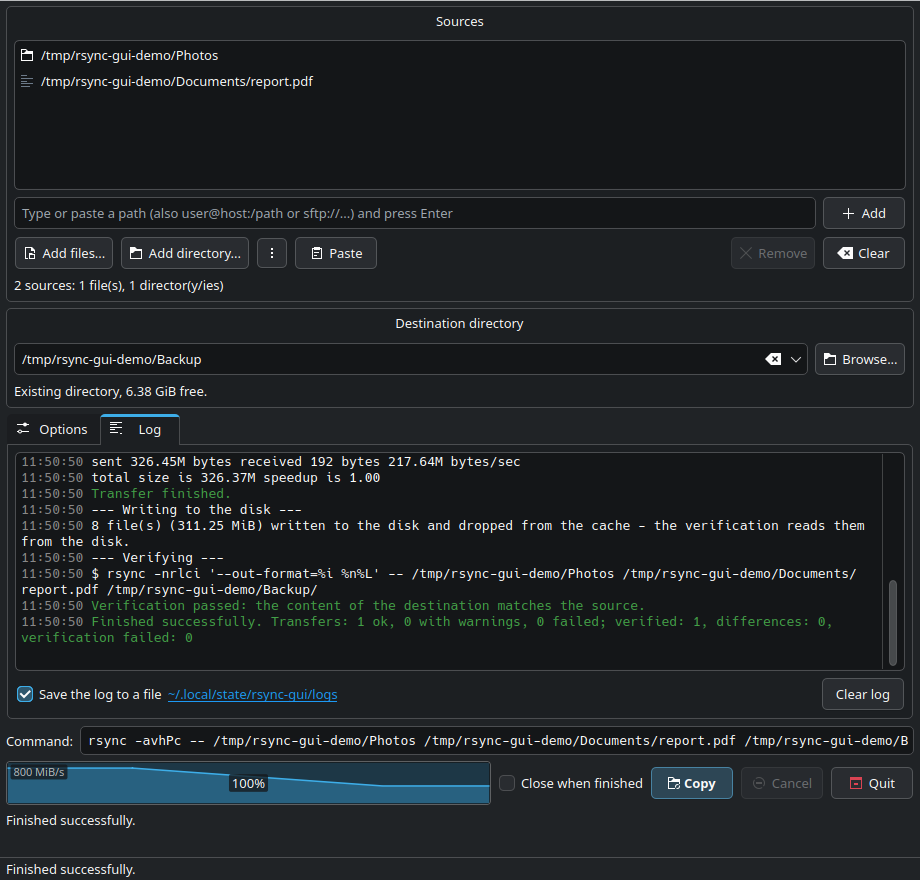
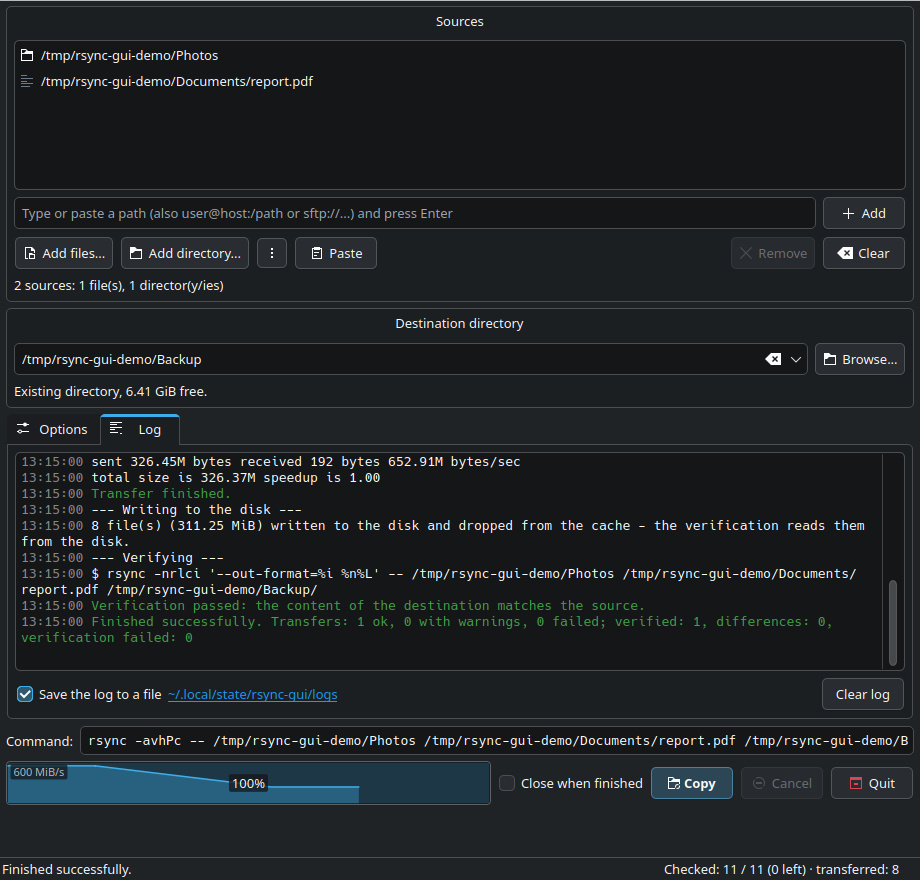
File counter and the result of the last run in the status bar
- Sum rsync's "xfr#N, to-chk=R/T" over all transfers of the job
  (RsyncJob::filesChanged) and show "Checked: n / total (left) ·
  transferred: m" on the right of the status bar; "+" while the total is
  not final. The checked count no longer goes back (rsync reports it out
  of order). The counts are also in the Plasma notification.
- Show the result of the last run on the left of the status bar instead
  of twice (current file line and status bar); a dry run says that
  nothing was changed, failed verification gives the number of
  differences.

diff --git a/src/mainwindow.cpp b/src/mainwindow.cpp
@@ -393,8 +393,17 @@ void MainWindow::buildUi()
     m_transferStatus = new ElidedLabel(central);
     m_transferStatus->setElideMode(Qt::ElideRight); // the amount and the percentage come first
     m_transferStatus->setFont(QFontDatabase::systemFont(QFontDatabase::FixedFont));
+    m_fileCount = new QLabel(this);
+    m_fileCount->setToolTip(tr("Entries rsync has checked of those it found so far (directories and files that are up "
+                               "to date count too) and the files it actually transferred. A \"+\" means the total "
+                               "is not final yet: rsync is still scanning, or more transfers follow."));
     mainLayout->addWidget(m_currentFile);
     mainLayout->addWidget(m_transferStatus);
+    // The status bar: the result of the last run on the left (hidden while a message is shown there, e.g. an
+    // invalid option), the file counter on the right.
+    m_resultLabel = new QLabel(this);
+    statusBar()->addWidget(m_resultLabel, 1);
+    statusBar()->addPermanentWidget(m_fileCount);
 
     // --- Log ---
     auto *logPage = new QWidget(m_tabs);
@@ -1281,6 +1290,11 @@ void MainWindow::startCopy()
     connect(m_job, &RsyncJob::statusChanged, m_transferStatus, [this](const QString &status) {
         m_transferStatus->setText(status);
     });
+    m_fileCount->clear();
+    m_resultLabel->clear();
+    connect(m_job, &RsyncJob::filesChanged, m_fileCount, [this](const RsyncJob::FileCount &count) {
+        m_fileCount->setText(RsyncJob::fileCountText(count));
+    });
     connect(m_job, &RsyncJob::finished, this, &MainWindow::onJobFinished);
 
     QString logFileError;
@@ -1326,10 +1340,23 @@ void MainWindow::startDesktopProgress(const RsyncOptions &options, const Locatio
     const QString title = options.dryRun ? tr("Dry run") : options.removeSourceFiles ? tr("Moving") : tr("Copying");
     m_desktopProgress->start(title, source, LocalPath::display(dest.toString()), destUrl);
     connect(m_job, &RsyncJob::progress, m_desktopProgress, &DesktopProgress::setProgress);
-    connect(m_job, &RsyncJob::statusChanged, m_desktopProgress, [this](QString status) {
-        // Plasma shows the percentage itself; keep the size, speed and ETA.
+    // Plasma shows the percentage itself; keep the size, speed, ETA and the file counts.
+    auto fileCount = std::make_shared<QString>();
+    auto updateInfo = [this, fileCount] {
         static const QRegularExpression percent(QStringLiteral("^\\d+%\\s*"));
-        m_desktopProgress->setInfo(status.remove(percent));
+        QString info = QString(m_transferStatusText).remove(percent);
+        if (!fileCount->isEmpty())
+            info += (info.isEmpty() ? QString() : QStringLiteral("  ")) + *fileCount;
+        m_desktopProgress->setInfo(info);
+    };
+    m_transferStatusText.clear();
+    connect(m_job, &RsyncJob::statusChanged, m_desktopProgress, [this, updateInfo](const QString &status) {
+        m_transferStatusText = status;
+        updateInfo();
+    });
+    connect(m_job, &RsyncJob::filesChanged, m_desktopProgress, [fileCount, updateInfo](const RsyncJob::FileCount &count) {
+        *fileCount = RsyncJob::fileCountText(count);
+        updateInfo();
     });
     connect(m_job, &RsyncJob::transferRateChanged, m_desktopProgress, &DesktopProgress::setSpeed);
     measureSourcesForDesktopProgress(options);
@@ -1437,6 +1464,7 @@ void MainWindow::onJobFinished()
     m_progress->stop();
     m_progress->setRange(0, 1000);
     m_transferStatus->clear();
+    m_currentFile->clear();
     // After a move, sources that no longer exist were transferred and removed - drop them from the list.
     if (currentOptions().removeSourceFiles && !currentOptions().dryRun) {
         for (int i = m_sourceList->count() - 1; i >= 0; --i) {
@@ -1448,18 +1476,18 @@ void MainWindow::onJobFinished()
     refreshSources();
     if (summary.ok() && m_closeWhenFinishedCheck->isChecked() && !m_job->options().dryRun) {
         // A short moment to see the result; unchecking the box in the meantime keeps the window open.
-        m_currentFile->setText(tr("Finished successfully. Closing..."));
+        m_resultLabel->setText(tr("Finished successfully. Closing..."));
         QTimer::singleShot(1500, this, [this] {
             if (m_closeWhenFinishedCheck->isChecked() && !(m_job && m_job->isRunning()))
                 close();
         });
     } else if (summary.ok()) {
-        m_currentFile->setText(tr("Finished successfully."));
-        statusBar()->showMessage(tr("Finished successfully."), 10000);
+        m_resultLabel->setText(m_job->options().dryRun ? tr("Dry run finished - nothing was changed.")
+                                                       : tr("Finished successfully."));
     } else if (summary.cancelled) {
-        m_currentFile->setText(tr("Cancelled."));
+        m_resultLabel->setText(tr("Cancelled."));
     } else if (summary.differences > 0) {
-        m_currentFile->setText(tr("Verification found differences."));
+        m_resultLabel->setText(tr("Verification found differences: %L1.").arg(summary.differences));
         QMessageBox box(QMessageBox::Warning, tr("Verification failed"),
                         tr("%1 entr(y/ies) in the destination differ from the source or are missing. "
                            "See the log for details.")
@@ -1468,7 +1496,7 @@ void MainWindow::onJobFinished()
         box.setDetailedText(m_job->differingFiles().mid(0, 1000).join(QLatin1Char('\n')));
         box.exec();
     } else {
-        m_currentFile->setText(tr("Finished with errors."));
+        m_resultLabel->setText(tr("Finished with errors."));
         QMessageBox::warning(this, tr("Finished with errors"),
                              tr("Not everything could be copied. See the log for details."));
     }

diff --git a/src/rsyncjob.cpp b/src/rsyncjob.cpp
@@ -360,6 +360,7 @@ void RsyncJob::start()
     m_index = 0;
     m_phase = Phase::Copy;
     m_bytesBefore = 0;
+    m_filesBefore = {};
     m_summary = {};
     m_differingFiles.clear();
     m_cancelRequested = false;
@@ -427,6 +428,8 @@ void RsyncJob::startProcess()
     m_pending.clear();
     m_lastDone = 0;
     m_lastTotal = 0;
+    m_lastTotalFinal = false;
+    m_lastTransferred = 0;
     m_humanLevel = humanLevel(args);
     m_completedBytes = 0;
     m_processedBytes = 0;
@@ -507,7 +510,18 @@ void RsyncJob::handleLine(const QString &rawLine)
         double fraction = 0.0;
         if (info.total > 0) {
             m_lastTotal = info.total;
-            m_lastDone = info.total - info.remaining;
+            // Not monotonic in rsync's output ("to-chk=3/5", "to-chk=1/5", "to-chk=2/5"): keep the highest.
+            m_lastDone = qMax(m_lastDone, info.total - info.remaining);
+            m_lastTotalFinal = info.totalFinal;
+        }
+        if (m_phase == Phase::Copy && (info.total > 0 || info.transferNumber > 0)) {
+            m_lastTransferred = qMax(m_lastTransferred, info.transferNumber);
+            FileCount count = m_filesBefore;
+            count.checked += m_lastDone;
+            count.total += m_lastTotal;
+            count.transferred += m_lastTransferred;
+            count.totalFinal = m_lastTotalFinal && m_index + 1 >= m_transfers.size();
+            emit filesChanged(count);
         }
         if (m_options.progress == RsyncOptions::Progress::Overall) {
             fraction = info.percent / 100.0;
@@ -520,12 +534,8 @@ void RsyncJob::handleLine(const QString &rawLine)
         }
         emitProgress(qBound(0.0, fraction, 1.0));
 
-        QString status = tr("%1%  %2  %3  ETA %4").arg(info.percent).arg(info.transferred, info.rate, info.eta);
-        if (info.total > 0) {
-            status += info.totalFinal ? tr("  files: %1/%2").arg(info.total - info.remaining).arg(info.total)
-                                      : tr("  files: %1/%2+").arg(info.total - info.remaining).arg(info.total);
-        }
-        emit statusChanged(status);
+        // (The file counts are reported by filesChanged().)
+        emit statusChanged(tr("%1%  %2  %3  ETA %4").arg(info.percent).arg(info.transferred, info.rate, info.eta));
         return;
     }
 
@@ -574,6 +584,14 @@ void RsyncJob::onProcessFinished(int exitCode, QProcess::ExitStatus status)
     if (m_phase == Phase::Copy) {
         m_bytesBefore += m_processedBytes;
         m_processedBytes = 0;
+        m_filesBefore.checked += m_lastDone;
+        m_filesBefore.total += m_lastTotal;
+        m_filesBefore.transferred += m_lastTransferred;
+        m_filesBefore.totalFinal = m_lastTotalFinal && m_index + 1 >= m_transfers.size();
+        m_lastDone = m_lastTotal = m_lastTransferred = 0;
+        m_lastTotalFinal = false;
+        if (!m_filesBefore.isEmpty())
+            emit filesChanged(m_filesBefore);
         bool runVerify = false;
         if (m_cancelRequested) {
             ++m_summary.transfersFailed;
@@ -924,4 +942,17 @@ void RsyncJob::emitProgress(double currentFraction)
         return;
     const qsizetype done = m_index * m_stepsPerTransfer + (m_phase == Phase::Verify ? 1 : m_phase == Phase::Remove ? 2 : 0);
     emit progress(int(1000.0 * (done + currentFraction) / total));
+}
+
+QString RsyncJob::fileCountText(const FileCount &count)
+{
+    if (count.isEmpty())
+        return {};
+    const QString more = count.totalFinal ? QString() : QStringLiteral("+");
+    return tr("Checked: %L1 / %L2%3 (%L4%3 left) \u00b7 transferred: %L5")
+        .arg(count.checked)
+        .arg(count.total)
+        .arg(more)
+        .arg(qMax<qint64>(0, count.total - count.checked))
+        .arg(count.transferred);
 }

diff --git a/tests/tst_rsynccore.cpp b/tests/tst_rsynccore.cpp
@@ -239,6 +239,7 @@ private slots:
     void humanLevel();
     void processedBytes_data();
     void processedBytes();
+    void fileCountText();
     void parseDifference_data();
     void parseDifference();
     void copyLocal();
@@ -743,14 +744,44 @@ void TestRsyncCore::processedBytes()
     options.human = human;
     RsyncJob job(localPlan({tmp.filePath("src")}, dest, options).transfers, options);
     QSignalSpy rates(&job, &RsyncJob::transferRateChanged);
+    QList<RsyncJob::FileCount> files;
+    connect(&job, &RsyncJob::filesChanged, this, [&files](const RsyncJob::FileCount &count) { files << count; });
     QVERIFY(runJob(job));
     QVERIFY(job.summary().ok());
     QVERIFY(!rates.isEmpty());
+    // "src", "src/a", "src/c", "src/sub", "src/sub/b" - three of them files that were copied.
+    QVERIFY(!files.isEmpty());
+    QCOMPARE(files.constLast().checked, 5);
+    QCOMPARE(files.constLast().total, 5);
+    QVERIFY(files.constLast().totalFinal);
+    QCOMPARE(files.constLast().transferred, 3);
+    for (qsizetype i = 1; i < files.size(); ++i) {
+        QVERIFY(files.at(i).checked >= files.at(i - 1).checked);
+        QVERIFY(files.at(i).transferred >= files.at(i - 1).transferred);
+    }
     const qint64 processed = rates.last().at(1).toLongLong();
     // -h rounds to 3 significant digits ("600K").
     QVERIFY2(qAbs(processed - 600000) <= (human ? 5000 : 0), qPrintable(QString::number(processed)));
     for (const QList<QVariant> &args : std::as_const(rates))
         QVERIFY(args.at(0).toLongLong() >= 0);
+}
+
+void TestRsyncCore::fileCountText()
+{
+    const QLocale previous;
+    QLocale::setDefault(QLocale(QLocale::English, QLocale::UnitedStates));
+    const auto restore = qScopeGuard([&previous] { QLocale::setDefault(previous); });
+    QCOMPARE(RsyncJob::fileCountText({}), QString());
+    RsyncJob::FileCount count;
+    count.checked = 1200;
+    count.total = 5000;
+    count.transferred = 340;
+    const QString growing = RsyncJob::fileCountText(count);
+    QVERIFY2(growing.contains(QStringLiteral("5,000+")) && growing.contains(QStringLiteral("3,800+ left"))
+                 && growing.endsWith(QStringLiteral("340")),
+             qPrintable(growing));
+    count.totalFinal = true;
+    QVERIFY(!RsyncJob::fileCountText(count).contains(QLatin1Char('+')));
 }
 
 void TestRsyncCore::parseDifference_data()

diff --git a/src/rsyncjob.h b/src/rsyncjob.h
@@ -59,6 +59,27 @@ public:
         qint64 bytesPerSecond = -1; // `rate` in bytes per second
     };
 
+    // The entries of the copy passes so far (all transfers of the job), from rsync's progress output
+    // ("xfr#N, to-chk=R/T"). rsync counts every entry of the file list (directories too), also those it
+    // skips because they are up to date. With incremental recursion (the default) the file list is still
+    // growing and `total` is not final yet; neither is it while more transfers follow.
+    struct FileCount
+    {
+        qint64 checked = 0;
+        qint64 total = 0;
+        bool totalFinal = false;
+        qint64 transferred = 0; // the files rsync actually copied
+
+        bool isEmpty() const { return total == 0 && checked == 0 && transferred == 0; }
+        bool operator==(const FileCount &other) const
+        {
+            return checked == other.checked && total == other.total && totalFinal == other.totalFinal
+                && transferred == other.transferred;
+        }
+    };
+    // E.g. "Checked: 1,200 / 5,000+ (3,800+ left) · transferred: 340"; empty if nothing has been reported.
+    static QString fileCountText(const FileCount &count);
+
     struct Summary
     {
         int transfersOk = 0;
@@ -139,6 +160,7 @@ signals:
     void progress(int permille);
     void statusChanged(const QString &text); // speed, ETA etc. of the running transfer
     void currentFileChanged(const QString &path);
+    void filesChanged(const RsyncJob::FileCount &count);
     // Speed and the bytes copied so far (all transfers of the job), from rsync's progress output.
     void transferRateChanged(qint64 bytesPerSecond, qint64 processedBytes);
     void phaseChanged(const QString &text);
@@ -178,6 +200,9 @@ private:
     int m_lastTransferNumber = 0;
     int m_lastDone = 0;  // files checked so far, from the last "to-chk" report
     int m_lastTotal = 0;
+    bool m_lastTotalFinal = false;
+    int m_lastTransferred = 0; // the highest "xfr#N" of the running copy pass
+    FileCount m_filesBefore;   // the finished copy passes
     bool m_running = false;
     bool m_cancelRequested = false;
     std::shared_ptr<std::atomic<bool>> m_dropCancel; // set while the page cache is being dropped

diff --git a/src/mainwindow.h b/src/mainwindow.h
@@ -163,6 +163,9 @@ private:
     SpeedGraph *m_progress = nullptr; // the progress bar with the speed graph
     ElidedLabel *m_currentFile = nullptr;
     ElidedLabel *m_transferStatus = nullptr;
+    QLabel *m_fileCount = nullptr;   // in the status bar
+    QLabel *m_resultLabel = nullptr; // the result of the last run, in the status bar
+    QString m_transferStatusText; // the last status of the job, for the desktop notification
     QTabWidget *m_tabs = nullptr;
     QPlainTextEdit *m_log = nullptr;
     QCheckBox *m_logToFileCheck = nullptr; // RsyncOptions::logToFile

diff --git a/README.md b/README.md
@@ -23,7 +23,7 @@ be passed as additional arguments.
 - **verification after copying**: a second rsync pass that compares checksums of the source and the
   destination and lists every file that differs or is missing,
 - preview of the generated command, progress bar (per file or overall) with a live **speed graph**
-  behind it, speed and ETA, a log with the time of every line (the date in the line that starts
+  behind it, speed and ETA, the result of the last run and a **file counter** in the status bar (see below), a log with the time of every line (the date in the line that starts
   a run and when the day changes),
   cancellation, confirmation only for options that delete files, optional **closing the window
   when the transfer finishes** successfully,
@@ -210,6 +210,18 @@ the time since the start (at least 10 seconds while running, the whole job after
 of the graph is the speed in its top left corner. Verification and removing the sources report no
 speed, so the graph has a gap there. The graph of the last job stays until the next one starts
 (see the screenshot of the log after copying below).
+
+## File counter
+
+On the right of the status bar the window shows what rsync reports about the file list, summed over all
+transfers of the job, e.g. *Checked: 1,200 / 5,000+ (3,800+ left) · transferred: 340*:
+
+- *checked* counts every entry of the file list - directories too, and files that are up to date and
+  not copied; *transferred* counts the files rsync actually copied,
+- a **+** means the total is not final yet: rsync builds the file list while copying (incremental
+  recursion) and adds to it as it goes, or more transfers follow,
+- with *Progress: None* and in a dry run rsync reports nothing, so there is no counter; with per-file
+  progress rsync prints nothing for a transfer in which everything is up to date either.
 
 ## Progress outside the window
 
